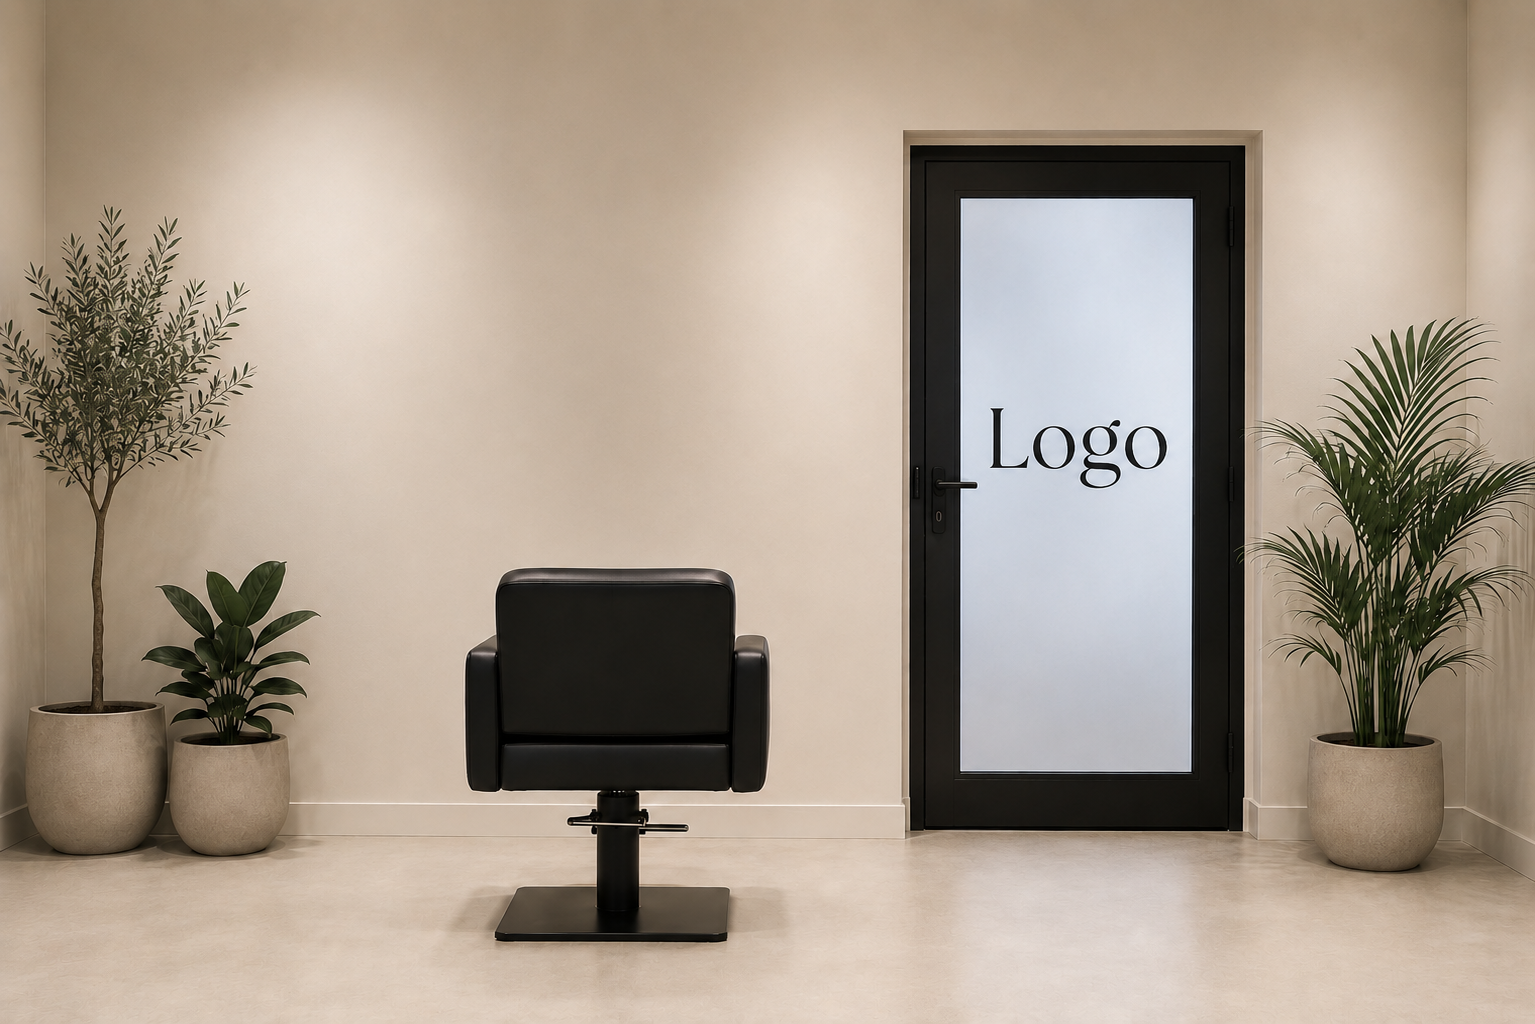
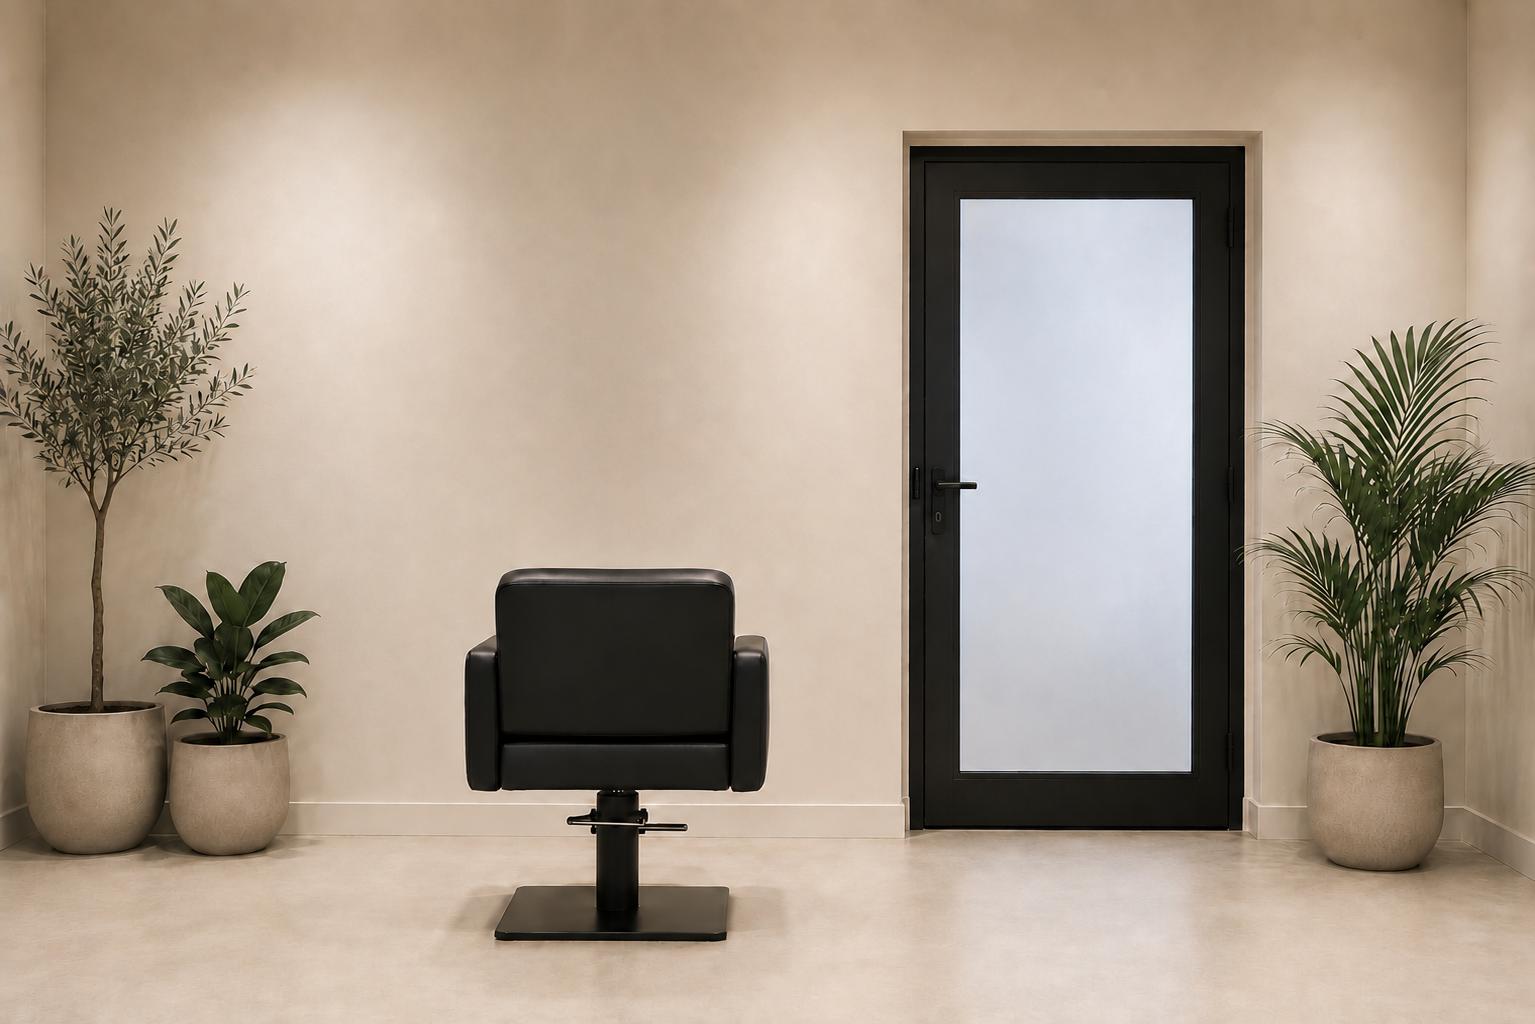
Update salon hero photo (clean version), add initials monogram on the door, enlarge wall lettering, add per-business-type description paragraphs

diff --git a/index.html b/index.html
@@ -34,28 +34,50 @@ document.addEventListener('DOMContentLoaded', () => {
 
   // ---- business types: label, wall-scene category, and 3 typical services ----
   const BUSINESS_TYPES = [
-    { label: 'Hair Salon', cat: 'salon', services: ['Cuts & styling', 'Colour & balayage', 'Blow-dry'] },
-    { label: 'Barber Shop', cat: 'salon', services: ['Haircuts', 'Beard trim', 'Hot towel shave'] },
-    { label: 'Nail Salon', cat: 'salon', services: ['Manicure', 'Pedicure', 'Gel extensions'] },
-    { label: 'Beauty Salon', cat: 'salon', services: ['Facials', 'Waxing', 'Lash & brow'] },
-    { label: 'Automotive Repair', cat: 'auto', services: ['MOT testing', 'Servicing', 'Diagnostics'] },
-    { label: 'Tyre & Exhaust', cat: 'auto', services: ['Tyre fitting', 'Exhaust repair', 'Wheel alignment'] },
-    { label: 'Car Valeting', cat: 'auto', services: ['Full valet', 'Interior detail', 'Paint correction'] },
-    { label: 'Plumbing', cat: 'trade', services: ['Emergency call-outs', 'Boiler repair', 'Bathroom fitting'] },
-    { label: 'Electrician', cat: 'trade', services: ['Rewiring', 'Fuse box upgrades', 'PAT testing'] },
-    { label: 'Locksmith', cat: 'trade', services: ['Lock changes', 'Emergency lockout', 'Key cutting'] },
-    { label: 'Building & Construction', cat: 'trade', services: ['Extensions', 'Renovations', 'Groundwork'] },
-    { label: 'Landscaping & Gardening', cat: 'trade', services: ['Garden design', 'Lawn care', 'Tree surgery'] },
-    { label: 'Cleaning Services', cat: 'trade', services: ['Domestic cleaning', 'End of tenancy', 'Carpet cleaning'] },
-    { label: 'Bakery & Cafe', cat: 'food', services: ['Fresh bread', 'Coffee & pastries', 'Custom cakes'] },
-    { label: 'Restaurant', cat: 'food', services: ['A la carte dining', 'Takeaway', 'Private events'] },
-    { label: 'Personal Training', cat: 'fitness', services: ['1-to-1 training', 'Group classes', 'Nutrition plans'] },
-    { label: 'Dentist', cat: 'fitness', services: ['Check-ups', 'Teeth whitening', 'Emergency dental'] },
-    { label: 'Physiotherapy', cat: 'fitness', services: ['Sports injury', 'Massage therapy', 'Rehab plans'] },
-    { label: 'Pet Grooming', cat: 'pet', services: ['Full groom', 'Nail trim', 'Bath & brush'] },
-    { label: 'Photography', cat: 'office', services: ['Portraits', 'Weddings', 'Commercial shoots'] },
-    { label: 'Accounting & Bookkeeping', cat: 'office', services: ['Tax returns', 'Payroll', 'Bookkeeping'] },
-    { label: 'Real Estate', cat: 'office', services: ['Property sales', 'Lettings', 'Valuations'] }
+    { label: 'Hair Salon', cat: 'salon', services: ['Cuts & styling', 'Colour & balayage', 'Blow-dry'],
+      desc: '{name} is a friendly, modern salon where every visit starts with a proper consultation, not a rushed guess. Whether you’re after a sharp trim or a full colour transformation, our stylists take the time to get it right.' },
+    { label: 'Barber Shop', cat: 'salon', services: ['Haircuts', 'Beard trim', 'Hot towel shave'],
+      desc: 'At {name}, classic barbering meets modern styling. Walk in for a quick tidy-up or book in for the full hot towel treatment — our chairs are for anyone who wants to look sharp without the fuss.' },
+    { label: 'Nail Salon', cat: 'salon', services: ['Manicure', 'Pedicure', 'Gel extensions'],
+      desc: '{name} is a relaxed, hygienic space for manicures, pedicures and nail art that actually lasts. We use quality products and take our time, so you leave with nails you’re proud to show off.' },
+    { label: 'Beauty Salon', cat: 'salon', services: ['Facials', 'Waxing', 'Lash & brow'],
+      desc: '{name} brings together everything you need to feel your best, from relaxing facials to precise brow and lash work. Every treatment is tailored to you, not a one-size-fits-all routine.' },
+    { label: 'Automotive Repair', cat: 'auto', services: ['MOT testing', 'Servicing', 'Diagnostics'],
+      desc: '{name} is your local garage for honest, no-nonsense car care. From MOTs to full diagnostics, our qualified mechanics explain what your car actually needs — and nothing it doesn’t.' },
+    { label: 'Tyre & Exhaust', cat: 'auto', services: ['Tyre fitting', 'Exhaust repair', 'Wheel alignment'],
+      desc: '{name} keeps you safely on the road with fast, fairly priced tyre and exhaust work. Same-day fitting, proper wheel alignment, and no waiting around all afternoon.' },
+    { label: 'Car Valeting', cat: 'auto', services: ['Full valet', 'Interior detail', 'Paint correction'],
+      desc: '{name} brings your car back to showroom condition, inside and out. From a quick refresh to full paint correction, we treat every vehicle like it’s our own.' },
+    { label: 'Plumbing', cat: 'trade', services: ['Emergency call-outs', 'Boiler repair', 'Bathroom fitting'],
+      desc: '{name} is on call for the plumbing jobs that can’t wait, and the bathroom projects that can. Fully qualified, fully insured, and always upfront about pricing before we start.' },
+    { label: 'Electrician', cat: 'trade', services: ['Rewiring', 'Fuse box upgrades', 'PAT testing'],
+      desc: '{name} handles everything electrical, from a single socket to a full rewire, to the safety standard your home or business deserves. NICEIC-minded work, done properly the first time.' },
+    { label: 'Locksmith', cat: 'trade', services: ['Lock changes', 'Emergency lockout', 'Key cutting'],
+      desc: '{name} gets you back into your home or business fast, day or night. Locked out, moved in, or just want better security — we’re a call away.' },
+    { label: 'Building & Construction', cat: 'trade', services: ['Extensions', 'Renovations', 'Groundwork'],
+      desc: '{name} turns plans into finished spaces, from single-room renovations to full extensions. We manage the whole job, so you deal with one trusted team from start to finish.' },
+    { label: 'Landscaping & Gardening', cat: 'trade', services: ['Garden design', 'Lawn care', 'Tree surgery'],
+      desc: '{name} designs and maintains gardens people actually want to spend time in. From a one-off tidy-up to a full redesign, we work with your space, not against it.' },
+    { label: 'Cleaning Services', cat: 'trade', services: ['Domestic cleaning', 'End of tenancy', 'Carpet cleaning'],
+      desc: '{name} takes cleaning off your to-do list for good. Reliable, thorough, and fully insured — whether it’s a weekly clean or a one-off end of tenancy deep clean.' },
+    { label: 'Bakery & Cafe', cat: 'food', services: ['Fresh bread', 'Coffee & pastries', 'Custom cakes'],
+      desc: '{name} is baking fresh every morning — proper bread, good coffee, and cakes made to order. A neighbourhood spot for people who care about what they’re eating.' },
+    { label: 'Restaurant', cat: 'food', services: ['A la carte dining', 'Takeaway', 'Private events'],
+      desc: 'At {name}, every dish is made from scratch with proper ingredients. Whether you’re booking a table, ordering a takeaway, or planning a private event, we treat every table the same way — well.' },
+    { label: 'Personal Training', cat: 'fitness', services: ['1-to-1 training', 'Group classes', 'Nutrition plans'],
+      desc: '{name} builds training plans around real life, not just the gym. Whether it’s 1-to-1 coaching, group sessions or nutrition advice, the goal is progress you can actually stick to.' },
+    { label: 'Dentist', cat: 'fitness', services: ['Check-ups', 'Teeth whitening', 'Emergency dental'],
+      desc: '{name} offers calm, modern dental care for the whole family. From routine check-ups to emergency appointments, we focus on making every visit as comfortable as possible.' },
+    { label: 'Physiotherapy', cat: 'fitness', services: ['Sports injury', 'Massage therapy', 'Rehab plans'],
+      desc: '{name} helps you move better and recover properly, whether that’s from a sports injury or everyday aches. Every treatment plan is built around your goals, not a generic routine.' },
+    { label: 'Pet Grooming', cat: 'pet', services: ['Full groom', 'Nail trim', 'Bath & brush'],
+      desc: '{name} gives your pet a calm, gentle grooming experience from start to finish. Full grooms, quick tidy-ups, or just a bath — always handled with patience and care.' },
+    { label: 'Photography', cat: 'office', services: ['Portraits', 'Weddings', 'Commercial shoots'],
+      desc: '{name} captures the moments that actually matter, from portraits to weddings to commercial work. A relaxed approach behind the camera means natural results in front of it.' },
+    { label: 'Accounting & Bookkeeping', cat: 'office', services: ['Tax returns', 'Payroll', 'Bookkeeping'],
+      desc: '{name} keeps your numbers straight so you can focus on running the business. Clear advice, no jargon, and deadlines that never sneak up on you.' },
+    { label: 'Real Estate', cat: 'office', services: ['Property sales', 'Lettings', 'Valuations'],
+      desc: '{name} makes buying, selling and letting property straightforward. Honest valuations, clear communication, and a team that treats your move like it matters — because it does.' }
   ];
   BUSINESS_TYPES.forEach(t => {
     const opt = document.createElement('option');
@@ -227,10 +249,15 @@ document.addEventListener('DOMContentLoaded', () => {
     const heroSub = d.tagline || 'Tell us what makes you different — this line introduces your business.';
     const info = typeInfo(d.tagline);
     const cat = info ? info.cat : 'office';
+    const defaultDesc = info ? info.desc.replace(/\{name\}/g, d.name) : `${d.name} is a business that cares about doing things properly — tell us more about what makes you different and this paragraph will describe it.`;
     const usingCuratedSalonPhoto = !d.heroImage && cat === 'salon';
     const sceneMarkup = (d.heroImage || usingCuratedSalonPhoto) ? '' : sceneSVG(cat, t);
     const wallNameMarkup = !d.heroImage
       ? `<div class="wall-name${usingCuratedSalonPhoto ? ' wall-name--salon-photo' : ''}">${esc(d.name)}</div>`
+      : '';
+    const initials = d.name.trim().split(/\s+/).map(w => w[0]).filter(Boolean).slice(0, 2).join('').toUpperCase();
+    const doorMarkup = usingCuratedSalonPhoto
+      ? `<div class="door-mark">${esc(initials)}</div>`
       : '';
     const heroBg = d.heroImage
       ? `url('${d.heroImage}') center/cover no-repeat`
@@ -306,11 +333,17 @@ p{margin:0 0 1.1em}
   text-shadow:0 2px 10px rgba(0,0,0,.35);box-shadow:0 16px 36px rgba(0,0,0,.22), inset 0 0 0 1px rgba(255,255,255,.06)}
 @media(max-width:900px){.wall-name{top:8px;padding:10px 18px;font-size:1rem;letter-spacing:.06em}}
 @media(max-width:480px){.wall-name{white-space:normal;max-width:88%}}
-.wall-name--salon-photo{top:30%;left:19%;transform:none;background:none;border:none;box-shadow:none;
-  font-family:Georgia,'Times New Roman',serif;font-weight:600;font-size:clamp(1.3rem,3vw,2.1rem);
+.wall-name--salon-photo{top:28%;left:19%;transform:none;background:none;border:none;box-shadow:none;
+  font-family:Georgia,'Times New Roman',serif;font-weight:600;font-size:clamp(1.8rem,4.4vw,3.1rem);
   letter-spacing:.04em;text-transform:none;color:#2a2521;text-shadow:0 1px 1px rgba(255,255,255,.3)}
-@media(max-width:900px){.wall-name--salon-photo{left:50%;top:8%;transform:translateX(-50%);font-size:1.3rem;
+@media(max-width:900px){.wall-name--salon-photo{left:50%;top:8%;transform:translateX(-50%);font-size:1.5rem;
   background:rgba(255,255,255,.85);padding:8px 16px;border-radius:8px}}
+.door-mark{position:absolute;top:44%;left:70%;transform:translate(-50%,-50%);z-index:1;
+  width:14%;aspect-ratio:1;min-width:44px;max-width:74px;border-radius:50%;background:rgba(28,24,21,.88);
+  color:#f6efe9;display:flex;align-items:center;justify-content:center;
+  font-family:Georgia,'Times New Roman',serif;font-weight:600;letter-spacing:.02em;
+  font-size:clamp(.9rem,1.6vw,1.3rem);box-shadow:0 8px 20px rgba(0,0,0,.3)}
+@media(max-width:900px){.door-mark{display:none}}
 @media(max-width:900px){
   .site-header{top:64px}
   .hero{min-height:min(60vh,480px);margin-top:138px}
@@ -367,6 +400,7 @@ p{margin:0 0 1.1em}
 <section class="hero">
   ${sceneMarkup}
   ${wallNameMarkup}
+  ${doorMarkup}
   <div class="hero-copy">
     <div class="inner">
       <span class="eyebrow">${esc(eyebrowLoc)}</span>
@@ -387,7 +421,7 @@ p{margin:0 0 1.1em}
       <div>
         <span class="eyebrow">Welcome to ${esc(d.name)}</span>
         <h2>${esc(d.tagline) || 'Everything you need, in one place'}</h2>
-        <p class="lede">${esc(d.about) || 'Tell us more about your business and this paragraph will describe what makes you different.'}</p>
+        <p class="lede">${esc(d.about) || esc(defaultDesc)}</p>
         <div class="btn-row">
           <a class="btn btn--ghost" href="#services">Browse Services</a>
         </div>
